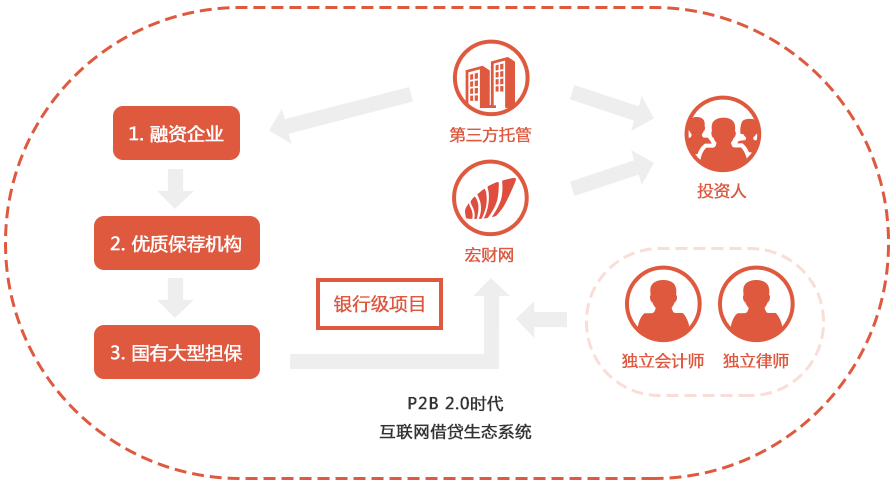
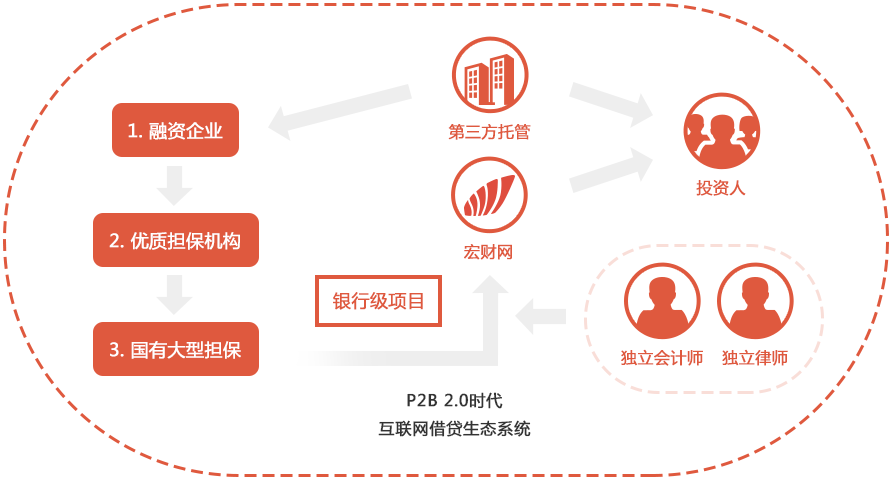
所有保荐机构换成担保机构

diff --git a/app/views/banner-P2B.html b/app/views/banner-P2B.html
@@ -51,7 +51,7 @@
   <br>
   <br>
   <p>
-    宏财网秉承专业务实、包容创新的态度，致力于为投资者打造一个信息透明，安全可靠，收益稳定的互联网借贷生态系统。宏财网的风控团队首先通过各项指标及实地考察挑选优质的保荐机构，该类机构主体信用评级均在A+以上，机构多为受政府扶持的龙头企业，或是供应链金融端的行业翘楚。其次，宏财网引入国有大型担保公司进行再担保，双重保险以应对各种突发事件，保障用户资金安全。最后，宏财网自有的风控团队会与独立的会计师事务所及律师事务所对保荐机构推荐的项目进行审核，并出具审核报告，力争筛选出最为可靠的项目。优质担保机构因其实力雄厚、管理规范、项目优质等优势，受到银行青睐，其推荐的项目通常符合银行要求，项目质量好、风险低，通常被称为银行级项目。宏财网联合优质的保荐机构，国有大型再担保，独立的会计及律师事务所，为投资人打造一个完整、安全的互联网借贷生态系统，加上平台自有近乎严苛的风控管理，投资人所享受的是银行级的理财产品，互联网金融产品的收益。
+    宏财网秉承专业务实、包容创新的态度，致力于为投资者打造一个信息透明，安全可靠，收益稳定的互联网借贷生态系统。宏财网的风控团队首先通过各项指标及实地考察挑选优质的担保机构，该类机构主体信用评级均在A+以上，机构多为受政府扶持的龙头企业，或是供应链金融端的行业翘楚。其次，宏财网引入国有大型担保公司进行再担保，双重保险以应对各种突发事件，保障用户资金安全。最后，宏财网自有的风控团队会与独立的会计师事务所及律师事务所对担保机构推荐的项目进行审核，并出具审核报告，力争筛选出最为可靠的项目。优质担保机构因其实力雄厚、管理规范、项目优质等优势，受到银行青睐，其推荐的项目通常符合银行要求，项目质量好、风险低，通常被称为银行级项目。宏财网联合优质的担保机构，国有大型再担保，独立的会计及律师事务所，为投资人打造一个完整、安全的互联网借贷生态系统，加上平台自有近乎严苛的风控管理，投资人所享受的是银行级的理财产品，互联网金融产品的收益。
   </p>
   <br>
   <div class="row"><img src="images/p2b-img4.png" width="894" height="482"></div>

diff --git a/app/views/banner-nine.html b/app/views/banner-nine.html
@@ -5,8 +5,8 @@
   <div class="nine-bg">
     <div class="step-area ab step-one">
       <div class="step-area-tips">
-        <strong>第一重：优质保荐机构担保</strong>
-        <p>产品推出之前，宏财网对保荐机构的背景及资质进行详细调查，实地考察保荐机构的经营状况，对其业绩及偿付能力进行全面分析，保证保荐机构在极端情况下对可能发生的代偿顺利实施</p>
+        <strong>第一重：优质担保机构担保</strong>
+        <p>产品推出之前，宏财网对担保机构的背景及资质进行详细调查，实地考察担保机构的经营状况，对其业绩及偿付能力进行全面分析，保证担保机构在极端情况下对可能发生的代偿顺利实施</p>
       </div>
     </div>
     <div class="step-area ab step-two">
@@ -18,7 +18,7 @@
     <div class="step-area ab step-three">
       <div class="step-area-tips">
         <strong>第三重：严格的项目审查</strong>
-        <p>由宏财网审核团队会同专业会计师事务所和保荐机构各自独立进行审核并出具审核报告，三方全部通过审核则项目立项。宏财网评审会对项目进行二次审核陈述，并投票表决，评审专家全票通过，则项目通过最终审核</p>
+        <p>由宏财网审核团队会同专业会计师事务所和担保机构各自独立进行审核并出具审核报告，三方全部通过审核则项目立项。宏财网评审会对项目进行二次审核陈述，并投票表决，评审专家全票通过，则项目通过最终审核</p>
       </div>
     </div>
     <div class="step-area ab step-four">

diff --git a/app/views/safe.html b/app/views/safe.html
@@ -8,7 +8,7 @@
 		<div class="row safe-content">
         <ul class="nav navbar-nav sticky border-b" sticky>
           <div class="col-xs-12 padding-lr-30">
-            <li><a href="/safe/#safe-step-1" ng-click="addActive($event)" class="{{hsh=='safe-step-1'||hsh==''?'active':''}}"><div class="step-1"></div><small>保荐机构</small></a></li>
+            <li><a href="/safe/#safe-step-1" ng-click="addActive($event)" class="{{hsh=='safe-step-1'||hsh==''?'active':''}}"><div class="step-1"></div><small>担保机构</small></a></li>
             <li><a href="/safe/#safe-step-2" ng-click="addActive($event)" class="{{hsh=='safe-step-2'?'active':''}}"><div class="step-2"></div><small>国有再保</small></a></li>
             <li><a href="/safe/#safe-step-3" ng-click="addActive($event)" class="{{hsh=='safe-step-3'?'active':''}}"><div class="step-3"></div><small>项目审查</small></a></li>
             <li><a href="/safe/#safe-step-4" ng-click="addActive($event)" class="{{hsh=='safe-step-4'?'active':''}}"><div class="step-4"></div><small>风控流程</small></a></li>
@@ -27,7 +27,7 @@
 					<div class="row">
 						<div class="col-xs-5"><img src="images/safe/safe_content_1.png" style="margin-top: 50px; width: 100%;" alt="优质保荐机构担保"></div>
 						<div class="col-md-7">
-							<p class="ft-16 ftw-b">第一重 优质保荐机构的选择</p>
+							<p class="ft-16 ftw-b">第一重 优质担保机构的选择</p>
 							<ul class="tit2">
 								<li>宏财严选合作的担保机构</li>
 							</ul>

diff --git a/app/views/project/project-details.html b/app/views/project/project-details.html
@@ -38,7 +38,7 @@
                   <hr style="margin-top: 3px;margin-bottom: 12px;">
                   <div class="row">
                     <div class="col-xs-12 under-margin1"><i class="fa fa-circle hc-text-red right-margin"></i>
-                      <strong>保荐机构：<a ui-sref="root.project-sponsorInstitution({guaranteeId: project.guaranteeId})" target="_blank">{{project.guaranteeName}}</a></strong>
+                      <strong>担保机构：<a ui-sref="root.project-sponsorInstitution({guaranteeId: project.guaranteeId})" target="_blank">{{project.guaranteeName}}</a></strong>
                     </div>
                     <div class="col-xs-12 under-margin1"><i class="fa fa-circle hc-text-red right-margin"></i>
                       <strong>还款方式：{{project.repaymentName}}</strong>
@@ -131,7 +131,7 @@
                   <div class="container-fluid">
                     <div class="row">
                       <div class="col-xs-12">
-                        <h4 class="page-header"><i class="fa fa-square hc-text-red"></i>保荐机构</h4>
+                        <h4 class="page-header"><i class="fa fa-square hc-text-red"></i>担保机构</h4>
                       </div>
                       <div class="col-xs-12">
                         <p>{{projectInfo.guaranteeSuggestion}}</p>

diff --git a/app/views/help-center/safety-certification-app.html b/app/views/help-center/safety-certification-app.html
@@ -46,7 +46,7 @@
     <div class="help-ico {{changeSafeQ7 == true ? 'open' : ''}} col-md-offset-1 col-lg-offset-1" ng-click="changeSafeQ7 =! changeSafeQ7"></div>
     <p class="p-click" ng-click="changeSafeQ7 =! changeSafeQ7">&nbsp;宏财网有几层安全保障？</p>
     <p class="col-md-10 col-lg-10 col-md-offset-1 col-lg-offset-1" ng-if="changeSafeQ7 == true">宏财网独创9层安全保障；实实在在的100%本息保障。
-    <br>1，优质保荐机构担保；
+    <br>1，优质担保机构担保；
     <br>2，国有大型担保公司再担保；
     <br>3，严格的项目审查；
     <br>4，完善的风控流程；

diff --git a/app/views/help-center/safety-certification.html b/app/views/help-center/safety-certification.html
@@ -49,7 +49,7 @@
 		<div class="help-ico {{changeSafeQ7 == true ? 'open' : ''}} col-md-offset-1 col-lg-offset-1" ng-click="changeSafeQ7 =! changeSafeQ7"></div>
 		<p class="p-click" ng-click="changeSafeQ7 =! changeSafeQ7">&nbsp;宏财网有几层安全保障？</p>
 		<p class="col-md-10 col-lg-10 col-md-offset-1 col-lg-offset-1" ng-if="changeSafeQ7 == true">宏财网独创9层安全保障；实实在在的100%本息保障。
-		<br>1，优质保荐机构担保；
+		<br>1，优质担保机构担保；
 		<br>2，国有大型担保公司再担保；
 		<br>3，严格的项目审查；
 		<br>4，完善的风控流程；
